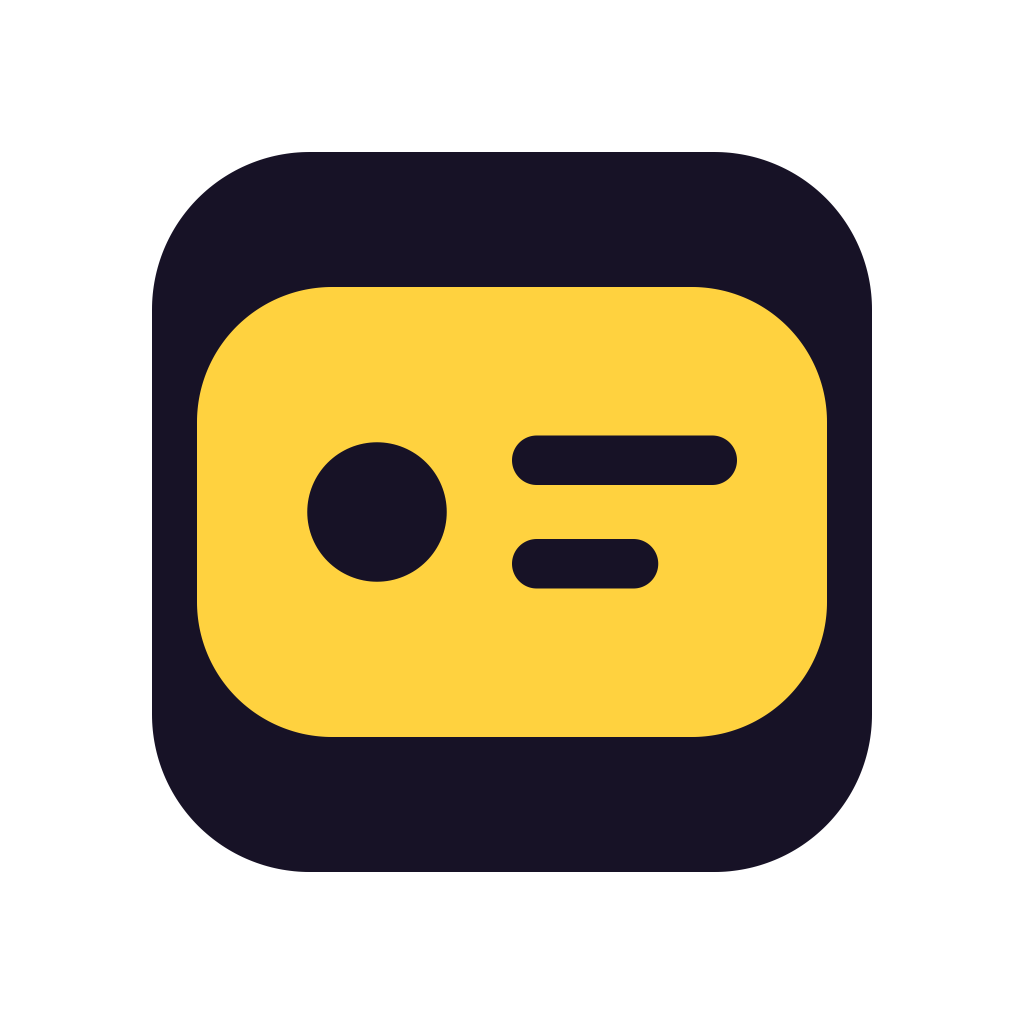
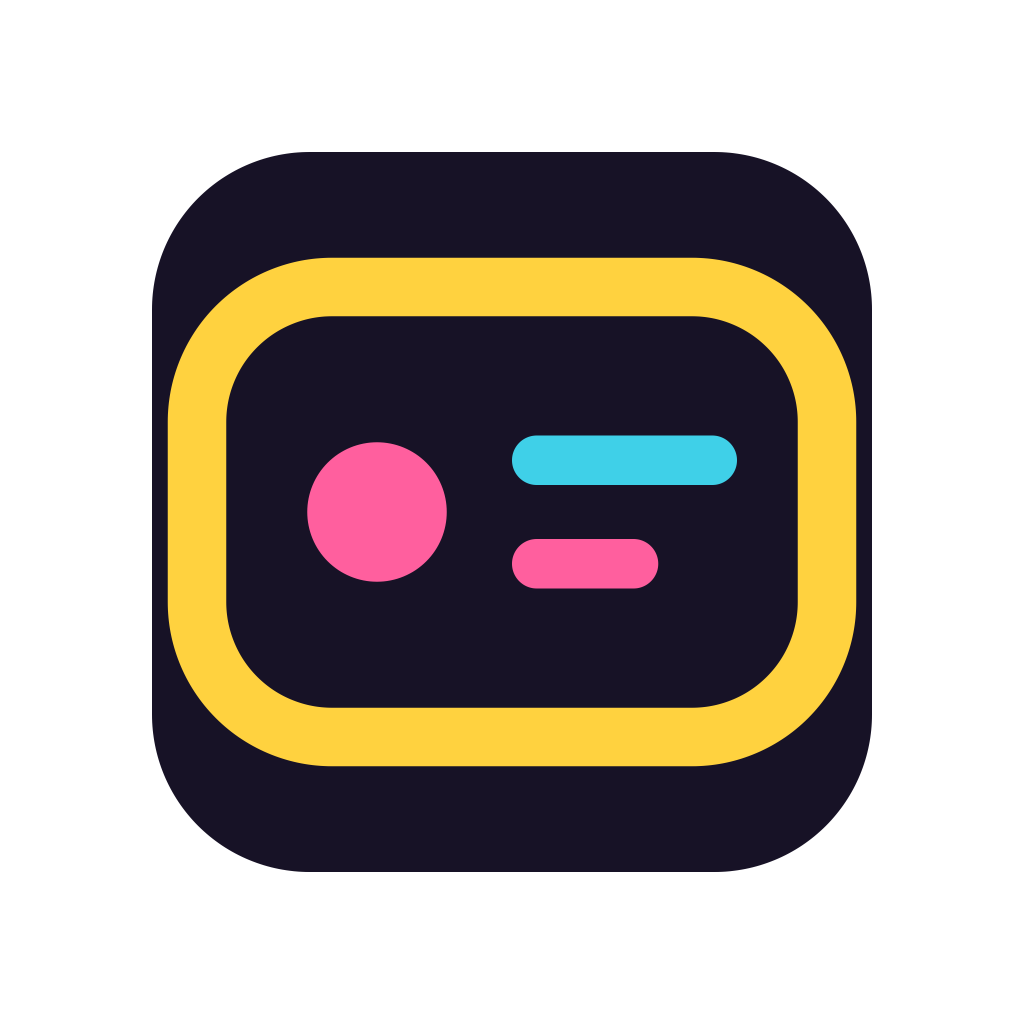
feat(brand): give the mark its three arcade hues and fix the two shells that missed the rebrand (#346)
The mark goes back to an outlined shell: yellow stroke, pink screen dot, cyan
long key, pink short key — one hue per element instead of a single filled
slab. Geometry is untouched again (body 28x20 rx6 stroked at 2.6, lens r3.1 at
(10,16), bars 10x2.2 and 6.5x2.2 rx1.1); only the paint changed. The reference
was fitted against the shipped constants before anything moved, and 2.6 / rx6
came out the closest match.

Two surfaces had been left on the old bare-metal mark:

- site/templates.ts carries its own inline LOGO, and its gradient ids are
  `pj-shell-*` rather than `pj-*`, so the sweep that caught every other copy
  walked straight past it. That is the shell behind docs, blog, changelog and
  the playground — most of the site. It now draws the same four shapes as
  favicon.svg, with a comment naming favicon.svg as the source of record.
- hosts/iphone4s/Icon.svg redrew the mark in its own hand-scaled coordinates.
  It now mounts the 32-unit drawing through a transform instead, so the retina
  icon cannot drift from the source again.

site-stage.test.ts grew a loop asserting every surface that draws the mark
draws THIS mark, which is what would have caught the templates.ts miss.

The Safari pinned-tab mask becomes a ring: an outlined shell needs the inner
rounded rect to be a real hole, with the dot and keys as their own shapes.

Also: tools/generate-vita-livearea.ts no longer rasterizes through
ImageMagick. Its rsvg delegate silently drops `fill="none"` strokes — the
[…]

Changed region(s): [[0.1562, 0.25, 0.8438, 0.75]]

diff --git a/tests/site-stage.test.ts b/tests/site-stage.test.ts
@@ -513,17 +513,33 @@ test("the icon family is rendered from one drawing and linked from every head", 
   expect(svg).toContain("<svg");
 });
 
-test("public PocketJS icon surfaces keep the filled mark on the plum backing", () => {
+test("public PocketJS icon surfaces keep the arcade mark on the plum backing", () => {
   const favicon = readFileSync(ROOT + "site/assets/favicon.svg", "utf8");
   const backing = '<rect width="32" height="32" rx="7" fill="#171226"/>';
-  const body = '<rect x="2" y="6" width="28" height="20" rx="6" fill="#ffd23f"/>';
+  const shell = 'rx="6" fill="none" stroke="#ffd23f" stroke-width="2.6"';
   expect(favicon).toContain(backing);
-  expect(favicon).toContain(body);
-  expect(favicon.indexOf(backing)).toBeLessThan(favicon.indexOf(body));
-  // The mark carries one colour: the screen details are painted in the backing
-  // rather than stroked, which is what survives 16px.
+  expect(favicon).toContain(shell);
+  expect(favicon.indexOf(backing)).toBeLessThan(favicon.indexOf(shell));
+  // One flat hue per element, so the mark survives being scaled down: the
+  // shell is yellow, the screen dot and short key pink, the long key cyan.
   expect(favicon).not.toContain("Gradient");
-  expect(favicon).not.toContain('stroke=');
+  expect(favicon).toContain('<circle cx="10" cy="16" r="3.1" fill="#ff5f9e"/>');
+  expect(favicon).toContain('width="10" height="2.2" rx="1.1" fill="#3fd0e8"/>');
+  expect(favicon).toContain('width="6.5" height="2.2" rx="1.1" fill="#ff5f9e"/>');
+
+  // Every other surface draws the same four shapes rather than its own copy.
+  for (const file of [
+    "site/home.html",
+    "site/for/shell.html",
+    "site/templates.ts",
+    "site/assets/og-image.svg",
+    "hosts/ipodtouch/Icon.svg",
+    "hosts/iphone4s/Icon.svg",
+  ]) {
+    const source = readFileSync(ROOT + file, "utf8");
+    expect(source).toContain(shell);
+    expect(source).toContain('<circle cx="10" cy="16" r="3.1" fill="#ff5f9e"/>');
+  }
 
   const readme = readFileSync(ROOT + "README.md", "utf8");
   expect(readme).toContain('src="./site/assets/favicon.svg"');

diff --git a/site/templates.ts b/site/templates.ts
@@ -69,16 +69,13 @@ export interface PageOpts {
   robots?: string;
 }
 
+// The nav mark, drawn inline so the shared shell needs no extra request.
+// Same geometry as site/assets/favicon.svg, which is the source of record.
 export const LOGO = `<svg viewBox="0 0 32 32" width="26" height="26" aria-hidden="true">
-  <defs>
-    <linearGradient id="pj-shell-edge" x1="4" y1="4" x2="28" y2="28" gradientUnits="userSpaceOnUse"><stop offset="0" stop-color="#eef6ff"/><stop offset="0.38" stop-color="#b7c8e2"/><stop offset="0.58" stop-color="#7487a0"/><stop offset="0.78" stop-color="#aec0d6"/><stop offset="1" stop-color="#dbe8f6"/></linearGradient>
-    <linearGradient id="pj-shell-lens" x1="7" y1="13" x2="13" y2="19" gradientUnits="userSpaceOnUse"><stop offset="0" stop-color="#e4edf8"/><stop offset="0.55" stop-color="#a7b8cf"/><stop offset="1" stop-color="#53677f"/></linearGradient>
-    <linearGradient id="pj-shell-bar" x1="16" y1="12" x2="24" y2="20" gradientUnits="userSpaceOnUse"><stop offset="0" stop-color="#d7e3f1"/><stop offset="1" stop-color="#71849d"/></linearGradient>
-  </defs>
-  <rect x="2" y="6" width="28" height="20" rx="6" fill="none" stroke="url(#pj-shell-edge)" stroke-width="2.6" stroke-linejoin="round"/>
-  <circle cx="10" cy="16" r="3.1" fill="url(#pj-shell-lens)"/>
-  <rect x="16" y="12.6" width="10" height="2.2" rx="1.1" fill="url(#pj-shell-bar)"/>
-  <rect x="16" y="17.2" width="6.5" height="2.2" rx="1.1" fill="url(#pj-shell-bar)"/>
+  <rect x="2" y="6" width="28" height="20" rx="6" fill="none" stroke="#ffd23f" stroke-width="2.6" stroke-linejoin="round"/>
+  <circle cx="10" cy="16" r="3.1" fill="#ff5f9e"/>
+  <rect x="16" y="12.6" width="10" height="2.2" rx="1.1" fill="#3fd0e8"/>
+  <rect x="16" y="17.2" width="6.5" height="2.2" rx="1.1" fill="#ff5f9e"/>
 </svg>`;
 
 function header(active: string): string {

diff --git a/site/for/shell.html b/site/for/shell.html
@@ -3,10 +3,10 @@
     <div class="lp-container lp-nav__in">
       <a class="lp-brand" href="/" aria-label="PocketJS home">
         <svg viewBox="0 0 32 32" aria-hidden="true">
-          <rect x="2" y="6" width="28" height="20" rx="6" fill="#ffd23f"/>
-          <circle cx="10" cy="16" r="3.1" fill="#171226"/>
-          <rect x="16" y="12.6" width="10" height="2.2" rx="1.1" fill="#171226"/>
-          <rect x="16" y="17.2" width="6.5" height="2.2" rx="1.1" fill="#171226"/>
+          <rect x="2" y="6" width="28" height="20" rx="6" fill="none" stroke="#ffd23f" stroke-width="2.6" stroke-linejoin="round"/>
+          <circle cx="10" cy="16" r="3.1" fill="#ff5f9e"/>
+          <rect x="16" y="12.6" width="10" height="2.2" rx="1.1" fill="#3fd0e8"/>
+          <rect x="16" y="17.2" width="6.5" height="2.2" rx="1.1" fill="#ff5f9e"/>
         </svg>
         <span>PocketJS</span>
       </a>
@@ -30,10 +30,10 @@
         <div class="lp-footer__brand">
           <a class="lp-brand" href="/" aria-label="PocketJS home">
             <svg viewBox="0 0 32 32" aria-hidden="true">
-              <rect x="2" y="6" width="28" height="20" rx="6" fill="#ffd23f"/>
-              <circle cx="10" cy="16" r="3.1" fill="#171226"/>
-              <rect x="16" y="12.6" width="10" height="2.2" rx="1.1" fill="#171226"/>
-              <rect x="16" y="17.2" width="6.5" height="2.2" rx="1.1" fill="#171226"/>
+          <rect x="2" y="6" width="28" height="20" rx="6" fill="none" stroke="#ffd23f" stroke-width="2.6" stroke-linejoin="round"/>
+          <circle cx="10" cy="16" r="3.1" fill="#ff5f9e"/>
+          <rect x="16" y="12.6" width="10" height="2.2" rx="1.1" fill="#3fd0e8"/>
+          <rect x="16" y="17.2" width="6.5" height="2.2" rx="1.1" fill="#ff5f9e"/>
             </svg>
             <span>PocketJS</span>
           </a>

diff --git a/site/home.html b/site/home.html
@@ -2,10 +2,10 @@
   <div class="wrap">
     <a class="mark" href="#">
       <svg width="26" height="26" viewBox="0 0 32 32" aria-hidden="true">
-        <rect x="2" y="6" width="28" height="20" rx="6" fill="#ffd23f"/>
-        <circle cx="10" cy="16" r="3.1" fill="#171226"/>
-        <rect x="16" y="12.6" width="10" height="2.2" rx="1.1" fill="#171226"/>
-        <rect x="16" y="17.2" width="6.5" height="2.2" rx="1.1" fill="#171226"/>
+        <rect x="2" y="6" width="28" height="20" rx="6" fill="none" stroke="#ffd23f" stroke-width="2.6" stroke-linejoin="round"/>
+        <circle cx="10" cy="16" r="3.1" fill="#ff5f9e"/>
+        <rect x="16" y="12.6" width="10" height="2.2" rx="1.1" fill="#3fd0e8"/>
+        <rect x="16" y="17.2" width="6.5" height="2.2" rx="1.1" fill="#ff5f9e"/>
       </svg>
       <span class="nm">PocketJS</span>
     </a>
@@ -673,10 +673,10 @@
   <div class="wrap">
     <span class="mark">
       <svg width="22" height="22" viewBox="0 0 32 32" aria-hidden="true">
-        <rect x="2" y="6" width="28" height="20" rx="6" fill="#ffd23f"/>
-        <circle cx="10" cy="16" r="3.1" fill="#171226"/>
-        <rect x="16" y="12.6" width="10" height="2.2" rx="1.1" fill="#171226"/>
-        <rect x="16" y="17.2" width="6.5" height="2.2" rx="1.1" fill="#171226"/>
+        <rect x="2" y="6" width="28" height="20" rx="6" fill="none" stroke="#ffd23f" stroke-width="2.6" stroke-linejoin="round"/>
+        <circle cx="10" cy="16" r="3.1" fill="#ff5f9e"/>
+        <rect x="16" y="12.6" width="10" height="2.2" rx="1.1" fill="#3fd0e8"/>
+        <rect x="16" y="17.2" width="6.5" height="2.2" rx="1.1" fill="#ff5f9e"/>
       </svg>
       <span class="nm">PocketJS</span>
     </span>

diff --git a/tools/generate-vita-livearea.ts b/tools/generate-vita-livearea.ts
@@ -2,6 +2,7 @@
 // canonical mark. Builds consume the committed PNG/XML files and do not
 // require ImageMagick; only intentional artwork updates run this script.
 
+import { createCanvas, loadImage } from "@napi-rs/canvas";
 import {
   cpSync,
   existsSync,
@@ -87,13 +88,23 @@ try {
   // supplies that ground itself, so the tile is dropped and the mark is
   // rasterized on transparency — no floodfill, and no seam where an
   // anti-aliased tile edge would have met the ground.
+  //
+  // ImageMagick composites and quantises below, but it does NOT rasterize the
+  // SVG: its rsvg delegate silently drops `fill="none"` strokes (and
+  // objectBoundingBox gradients), which loses the shell outright. resvg, via
+  // @napi-rs/canvas, is the same renderer the iOS icon bakers use.
   const bare = readFileSync(source, "utf8").replace(
     /\s*<rect width="32" height="32"[^>]*\/>/,
     "",
   );
-  const bareFile = join(temporary, "mark.svg");
-  writeFileSync(bareFile, bare);
-  run(["-background", "none", "-density", "1200", bareFile, "-trim", "+repage", mark]);
+  const MARK_PX = 1024;
+  const sized = bare.replace("<svg", `<svg width="${MARK_PX}" height="${MARK_PX}"`);
+  const rendered = await loadImage(Buffer.from(sized));
+  const surface = createCanvas(MARK_PX, MARK_PX);
+  surface.getContext("2d").drawImage(rendered, 0, 0, MARK_PX, MARK_PX);
+  writeFileSync(mark, surface.toBuffer("image/png"));
+  run([mark, "-trim", "+repage", mark]);
+
   render("icon0.png", 128, 128, "112x74");
   render("livearea/contents/startup.png", 280, 158, "196x118");
   render("livearea/contents/bg.png", 840, 500, "520x320");

diff --git a/tests/iphone2g-profile.test.ts b/tests/iphone2g-profile.test.ts
@@ -112,7 +112,7 @@ describe("private iPhone 2G build profile", () => {
   test("ships a precomposed skeuomorphic SpringBoard icon", async () => {
     expect(
       createHash("sha256").update(readFileSync(ICON_PATH)).digest("hex"),
[2 lines of base64/hex data omitted]
     const image = await loadImage(ICON_PATH);
     expect([image.width, image.height]).toEqual([59, 60]);
     const canvas = createCanvas(image.width, image.height);
@@ -129,10 +129,10 @@ describe("private iPhone 2G build profile", () => {
     expect(alphaAt(58, 59)).toBe(0);
     expect(alphaAt(29, 29)).toBe(255);
     // The three layers the era treatment is made of, sampled in from the edge:
-    // chrome bezel, plum enamel, then the arcade-yellow mark in the middle.
+    // chrome bezel, plum enamel, then the arcade-yellow shell of the mark.
     expect(pixelAt(29, 2)).toEqual([215, 217, 220, 255]);
     expect(pixelAt(29, 52)).toEqual([28, 21, 48, 255]);
-    expect(pixelAt(29, 29)).toEqual([255, 212, 73, 255]);
+    expect(pixelAt(12, 30)).toEqual([255, 210, 63, 255]);
   });
 
   test("the ES 1.1 pipeline enables the fixed-function state ES 2 gets from its shader", () => {

diff --git a/skills/pocketjs-video-outro/assets/outro.html b/skills/pocketjs-video-outro/assets/outro.html
@@ -84,10 +84,10 @@
   <div class="stage">
     <div class="lockup">
       <svg viewBox="0 0 32 32" xmlns="http://www.w3.org/2000/svg">
-        <rect x="2" y="6" width="28" height="20" rx="6" fill="#ffd23f"/>
-        <circle cx="10" cy="16" r="3.1" fill="#171226"/>
-        <rect x="16" y="12.6" width="10" height="2.2" rx="1.1" fill="#171226"/>
-        <rect x="16" y="17.2" width="6.5" height="2.2" rx="1.1" fill="#171226"/>
+        <rect x="2" y="6" width="28" height="20" rx="6" fill="none" stroke="#ffd23f" stroke-width="2.6" stroke-linejoin="round"/>
+        <circle cx="10" cy="16" r="3.1" fill="#ff5f9e"/>
+        <rect x="16" y="12.6" width="10" height="2.2" rx="1.1" fill="#3fd0e8"/>
+        <rect x="16" y="17.2" width="6.5" height="2.2" rx="1.1" fill="#ff5f9e"/>
       </svg>
       <div class="wordmark" id="brand">PocketJS</div>
     </div>

diff --git a/tests/ipodtouch-profile.test.ts b/tests/ipodtouch-profile.test.ts
@@ -110,6 +110,7 @@ describe("private iPod touch 6 profile", () => {
     expect(source).toContain('stop-color="#171226"');
     expect(source).toContain('stop-color="#ffd23f"');
     expect(source).toContain('stop-color="#ff5f9e"');
+    expect(source).toContain('stroke="#ffd23f" stroke-width="2.6"');
     expect(source).toContain('data-brand-source="site/assets/favicon.svg"');
     expect(source).toContain('transform="translate(96 96) scale(26)"');
     expect(source).toContain('<circle cx="10" cy="16" r="3.1"');
